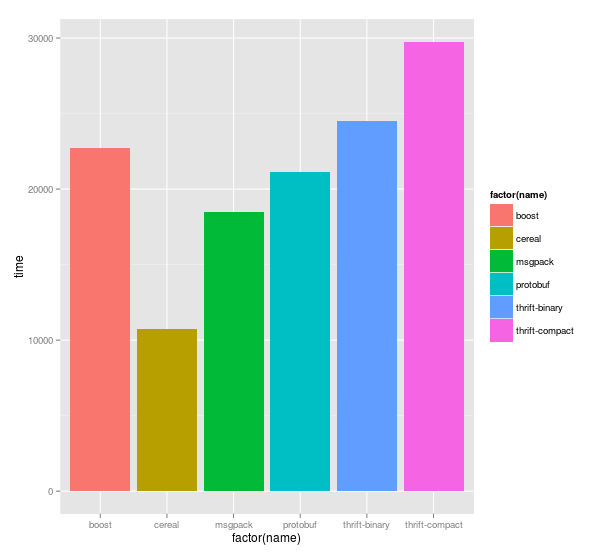
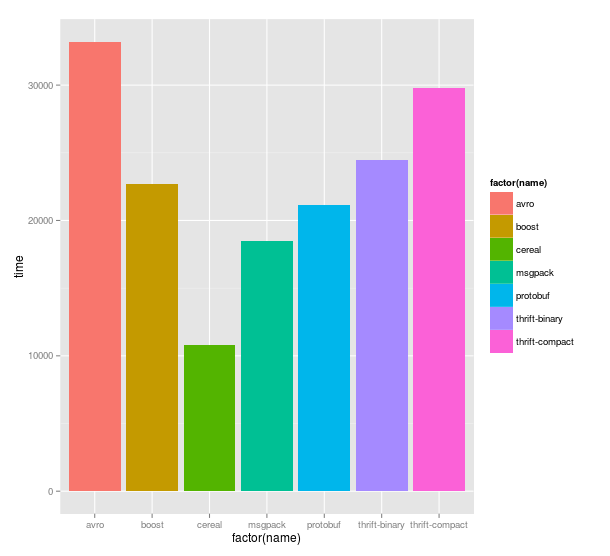
added Apache Avro

diff --git a/test.cpp b/test.cpp
@@ -4,6 +4,7 @@
 #include <stdexcept>
 #include <memory>
 #include <chrono>
+#include <sstream>
 
 #include <boost/shared_ptr.hpp>
 #include <boost/lexical_cast.hpp>
@@ -19,6 +20,7 @@
 #include "boost/record.hpp"
 #include "msgpack/record.hpp"
 #include "cereal/record.hpp"
+#include "avro/record.hpp"
 
 #include "data.hpp"
 
@@ -47,8 +49,8 @@ thrift_serialization_test(size_t iterations, ThriftSerializationProto proto = Th
 
     Record r1;
 
-    for (size_t i = 0; i < kItegers.size(); i++) {
-        r1.ids.push_back(kItegers[i]);
+    for (size_t i = 0; i < kIntegers.size(); i++) {
+        r1.ids.push_back(kIntegers[i]);
     }
 
     for (size_t i = 0; i < kStringsCount; i++) {
@@ -122,8 +124,8 @@ protobuf_serialization_test(size_t iterations)
 
     Record r1;
 
-    for (size_t i = 0; i < kItegers.size(); i++) {
-        r1.add_ids(kItegers[i]);
+    for (size_t i = 0; i < kIntegers.size(); i++) {
+        r1.add_ids(kIntegers[i]);
     }
 
     for (size_t i = 0; i < kStringsCount; i++) {
@@ -162,8 +164,8 @@ boost_serialization_test(size_t iterations)
 
     Record r1, r2;
 
-    for (size_t i = 0; i < kItegers.size(); i++) {
-        r1.ids.push_back(kItegers[i]);
+    for (size_t i = 0; i < kIntegers.size(); i++) {
+        r1.ids.push_back(kIntegers[i]);
     }
 
     for (size_t i = 0; i < kStringsCount; i++) {
@@ -200,8 +202,8 @@ msgpack_serialization_test(size_t iterations)
 
     Record r1, r2;
 
-    for (size_t i = 0; i < kItegers.size(); i++) {
-        r1.ids.push_back(kItegers[i]);
+    for (size_t i = 0; i < kIntegers.size(); i++) {
+        r1.ids.push_back(kIntegers[i]);
     }
 
     for (size_t i = 0; i < kStringsCount; i++) {
@@ -249,8 +251,8 @@ cereal_serialization_test(size_t iterations)
 
     Record r1, r2;
 
-    for (size_t i = 0; i < kItegers.size(); i++) {
-        r1.ids.push_back(kItegers[i]);
+    for (size_t i = 0; i < kIntegers.size(); i++) {
+        r1.ids.push_back(kIntegers[i]);
     }
 
     for (size_t i = 0; i < kStringsCount; i++) {
@@ -280,13 +282,68 @@ cereal_serialization_test(size_t iterations)
     std::cout << "cereal: time = " << duration << " milliseconds" << std::endl << std::endl;
 }
 
+void
+avro_serialization_test(size_t iterations)
+{
+    using namespace avro_test;
+
+    Record r1, r2;
+
+    for (size_t i = 0; i < kIntegers.size(); i++) {
+        r1.ids.push_back(kIntegers[i]);
+    }
+
+    for (size_t i = 0; i < kStringsCount; i++) {
+        r1.strings.push_back(kStringValue);
+    }
+
+    std::auto_ptr<avro::OutputStream> out = avro::memoryOutputStream();
+    avro::EncoderPtr encoder = avro::binaryEncoder();
+
+    encoder->init(*out);
+    avro::encode(*encoder, r1);
+
+    auto serialized_size = out->byteCount();
+
+    std::auto_ptr<avro::InputStream> in = avro::memoryInputStream(*out);
+    avro::DecoderPtr decoder = avro::binaryDecoder();
+
+    decoder->init(*in);
+    avro::decode(*decoder, r2);
+
+    if (r1.ids != r2.ids || r1.strings != r2.strings ||
+        r2.ids.size() != kIntegers.size() || r2.strings.size() != kStringsCount) {
+        throw std::logic_error("avro's case: deserialization failed");
+    }
+
+    std::cout << "avro: size = " << serialized_size << " bytes" << std::endl;
+
+    auto start = std::chrono::high_resolution_clock::now();
+    for (size_t i = 0; i < iterations; i++) {
+        auto out = avro::memoryOutputStream();
+        auto encoder = avro::binaryEncoder();
+        encoder->init(*out);
+        avro::encode(*encoder, r1);
+
+        auto in = avro::memoryInputStream(*out);
+        auto decoder = avro::binaryDecoder();
+        decoder->init(*in);
+        avro::decode(*decoder, r2);
+    }
+    auto finish = std::chrono::high_resolution_clock::now();
+    auto duration = std::chrono::duration_cast<std::chrono::milliseconds>(finish - start).count();
+
+    std::cout << "avro: time = " << duration << " milliseconds" << std::endl << std::endl;
+}
+
 int
 main(int argc, char **argv)
 {
     GOOGLE_PROTOBUF_VERIFY_VERSION;
 
     if (argc < 2) {
-        std::cout << "usage: " << argv[0] << " N [thrift-binary thrift-compact protobuf boost msgpack cereal]" << std::endl << std::endl;
+        std::cout << "usage: " << argv[0] << " N [thrift-binary thrift-compact protobuf boost msgpack cereal avro]";
+        std::cout << std::endl << std::endl;
         std::cout << "arguments: " << std::endl;
         std::cout << " N  -- number of iterations" << std::endl << std::endl;
         return EXIT_SUCCESS;
@@ -312,7 +369,7 @@ main(int argc, char **argv)
 
     std::cout << "performing " << iterations << " iterations" << std::endl << std::endl;
 
-    /*std::cout << "total size: " << sizeof(kIntegerValue) * kItegersCount + kStringValue.size() * kStringsCount << std::endl;*/
+    /*std::cout << "total size: " << sizeof(kIntegerValue) * kIntegersCount + kStringValue.size() * kStringsCount << std::endl;*/
 
     try {
         if (names.empty() || names.find("thrift-binary") != names.end()) {
@@ -337,6 +394,10 @@ main(int argc, char **argv)
 
         if (names.empty() || names.find("cereal") != names.end()) {
             cereal_serialization_test(iterations);
+        }
+
+        if (names.empty() || names.find("avro") != names.end()) {
+            avro_serialization_test(iterations);
         }
     } catch (std::exception &exc) {
         std::cerr << "Error: " << exc.what() << std::endl;

diff --git a/avro/record.hpp b/avro/record.hpp
@@ -1,0 +1,54 @@
+/**
+ * Licensed to the Apache Software Foundation (ASF) under one
+ * or more contributor license agreements.  See the NOTICE file
+ * distributed with this work for additional information
+ * regarding copyright ownership.  The ASF licenses this file
+ * to you under the Apache License, Version 2.0 (the
+ * "License"); you may not use this file except in compliance
+ * with the License.  You may obtain a copy of the License at
+ *
+ *     http://www.apache.org/licenses/LICENSE-2.0
+ *
+ * Unless required by applicable law or agreed to in writing, software
+ * distributed under the License is distributed on an "AS IS" BASIS,
+ * WITHOUT WARRANTIES OR CONDITIONS OF ANY KIND, either express or implied.
+ * See the License for the specific language governing permissions and
+ * limitations under the License.
+ */
+
+
+#ifndef _HOME_KVS_WORK_DEVEL_CPP_SERIALIZERS_AVRO_RECORD_HPP_4146017327__H_
+#define _HOME_KVS_WORK_DEVEL_CPP_SERIALIZERS_AVRO_RECORD_HPP_4146017327__H_
+
+
+#include <sstream>
+#include "boost/any.hpp"
+#include "avro/Specific.hh"
+#include "avro/Encoder.hh"
+#include "avro/Decoder.hh"
+
+namespace avro_test {
+struct Record {
+    std::vector<int64_t > ids;
+    std::vector<std::string > strings;
+    Record() :
+        ids(std::vector<int64_t >()),
+        strings(std::vector<std::string >())
+        { }
+};
+
+}
+namespace avro {
+template<> struct codec_traits<avro_test::Record> {
+    static void encode(Encoder& e, const avro_test::Record& v) {
+        avro::encode(e, v.ids);
+        avro::encode(e, v.strings);
+    }
+    static void decode(Decoder& d, avro_test::Record& v) {
+        avro::decode(d, v.ids);
+        avro::decode(d, v.strings);
+    }
+};
+
+}
+#endif

diff --git a/data.hpp b/data.hpp
@@ -7,7 +7,7 @@
 const size_t      kStringsCount = 100;
 const std::string kStringValue  = "shgfkghsdfjhgsfjhfgjhfgjsffghgsfdhgsfdfkdjhfioukjhkfdljgdfkgvjafdhasgdfwurtjkghfsdjkfg";
 
-const std::vector<int64_t> kItegers = {
+const std::vector<int64_t> kIntegers = {
     34492,6603,44033,8874,47607,38416,20395,29192,38620,36775,
     35058,20501,39664,64574,11261,35679,16607,26020,39476,16699,
     21505,20947,53587,24746,45980,18827,137,61753,53340,25406,

diff --git a/README.md b/README.md
@@ -1,4 +1,4 @@
-#### [Thrift](http://thrift.apache.org/) vs. [Protobuf](https://code.google.com/p/protobuf/) vs. [Boost.Serialization](http://www.boost.org/libs/serialization) vs. [Msgpack](http://msgpack.org/) vs. [Cereal](http://uscilab.github.io/cereal/index.html) serialization/deserialization time test for C++.
+#### [Thrift](http://thrift.apache.org/) vs. [Protobuf](https://code.google.com/p/protobuf/) vs. [Boost.Serialization](http://www.boost.org/libs/serialization) vs. [Msgpack](http://msgpack.org/) vs. [Cereal](http://uscilab.github.io/cereal/index.html) vs. [Avro](http://avro.apache.org/) serialization/deserialization time test for C++.
 
 #### Build
 This project does not have any external library dependencies. All (boost, thrift etc.) needed libraries are downloaded
@@ -37,6 +37,7 @@ on a typical desktop computer with Intel Core i5 processor running Ubuntu 14.04.
 * msgpack 0.5.8
 * protobuf 2.5.0
 * cereal 1.0.0
+* avro 1.7.6
 
 | serializer     | object's size | avg. total time |
 | -------------- | ------------- | --------------- |
@@ -46,6 +47,7 @@ on a typical desktop computer with Intel Core i5 processor running Ubuntu 14.04.
 | boost          | 17470         | 22700           |
 | msgpack        | 11902         | 18470           |
 | cereal         | 17416         | 10770           |
+| avro           | 12288         | 33210           |
 
 Size mesuared in bytes, time mesuared in milliseconds.
 
